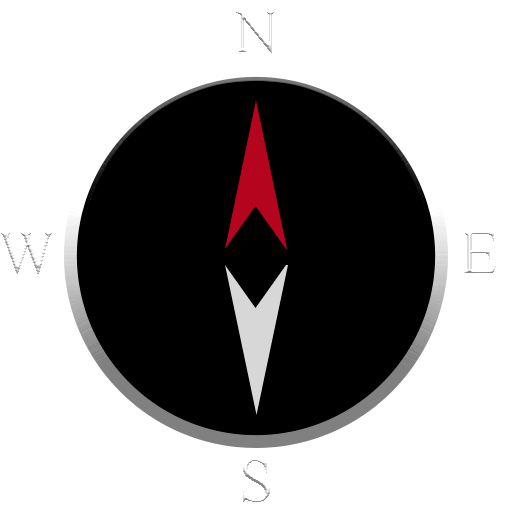
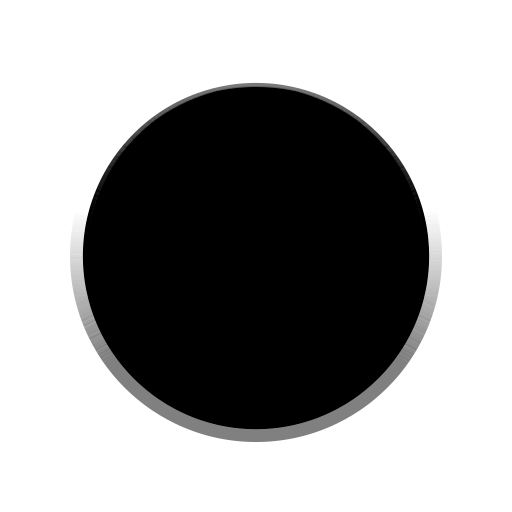
Added: timer background, Updated: timer font and compass position

diff --git a/src/client/timerdisplay.cpp b/src/client/timerdisplay.cpp
@@ -2,53 +2,51 @@
 
 TimerDisplay::TimerDisplay(glm::vec2 position) {
 
-	lMinute_val = 1;
-	rMinute_val = 0;
-	lSecond_val = 0;
-	rSecond_val = 0;
+	rMinute_val = 9;
+	lSecond_val = 5;
+	rSecond_val = 9;
 
 	//pos = glm::vec2(-1.0f, 1.0f);
 	pos = position;
-	lMinute = new UIElement(glm::vec3(pos.x, pos.y, 0.0f), scale, spriteMap[lMinute_val], uiTexture);
-	rMinute = new UIElement(glm::vec3(pos.x + digitGap, pos.y, 0.0f), scale, spriteMap[rMinute_val], uiTexture);
-	lSecond = new UIElement(glm::vec3(pos.x + (digitGap * 2.5f), pos.y, 0.0f), scale, spriteMap[lSecond_val], uiTexture);
-	rSecond = new UIElement(glm::vec3(pos.x + (digitGap * 2.5f) + digitGap, pos.y, 0.0f), scale, spriteMap[rSecond_val], uiTexture);
+	background = new UIElement(glm::vec3(pos.x, pos.y, 0.0f), scale * 4.0f, glm::vec2(0.0f, 0.0f), backgroundTexture);
+	glm::vec2 digitsPos = pos + indent;
+	rMinute = new UIElement(glm::vec3(digitsPos.x, digitsPos.y, 0.0f), scale, spriteMap[rMinute_val], uiTexture);
+	column = new UIElement(glm::vec3(digitsPos.x + digitGap, digitsPos.y, 0.0f), scale, spriteMap[10], uiTexture);
+	lSecond = new UIElement(glm::vec3(digitsPos.x + (digitGap * 2.0f), digitsPos.y, 0.0f), scale, spriteMap[lSecond_val], uiTexture);
+	rSecond = new UIElement(glm::vec3(digitsPos.x + (digitGap * 2.5f) + digitGap, digitsPos.y, 0.0f), scale, spriteMap[rSecond_val], uiTexture);
 }
 
-TimerDisplay::TimerDisplay(glm::vec2 position, int lMin, int rMin, int lSec, int rSec) {
+TimerDisplay::TimerDisplay(glm::vec2 position, int rMin, int lSec, int rSec) {
 
-	lMinute_val = lMin;
 	rMinute_val = rMin;
 	lSecond_val = lSec;
 	rSecond_val = rSec;
 
 	//pos = glm::vec2(-1.0f, 1.0f);
 	pos = position;
-	lMinute = new UIElement(glm::vec3(pos.x, pos.y, 0.0f), scale, spriteMap[lMinute_val], uiTexture);
-	rMinute = new UIElement(glm::vec3(pos.x + digitGap, pos.y, 0.0f), scale, spriteMap[rMinute_val], uiTexture);
-	lSecond = new UIElement(glm::vec3(pos.x + (digitGap * 2.5f), pos.y, 0.0f), scale, spriteMap[lSecond_val], uiTexture);
-	rSecond = new UIElement(glm::vec3(pos.x + (digitGap * 2.5f) + digitGap, pos.y, 0.0f), scale, spriteMap[rSecond_val], uiTexture);
+	background = new UIElement(glm::vec3(pos.x, pos.y, 0.0f), scale * 3.5f, glm::vec2(0.0f, 0.0f), backgroundTexture);
+	glm::vec2 digitsPos = pos + indent;
+	rMinute = new UIElement(glm::vec3(digitsPos.x, digitsPos.y, 0.0f), scale, spriteMap[rMinute_val], uiTexture);
+	column = new UIElement(glm::vec3(digitsPos.x + digitGap, digitsPos.y, 0.0f), scale, spriteMap[10], uiTexture);
+	lSecond = new UIElement(glm::vec3(digitsPos.x + (digitGap * 2.0f), digitsPos.y, 0.0f), scale, spriteMap[lSecond_val], uiTexture);
+	rSecond = new UIElement(glm::vec3(digitsPos.x + (digitGap * 2.5f) + digitGap, digitsPos.y, 0.0f), scale, spriteMap[rSecond_val], uiTexture);
 
 }
 
 TimerDisplay::~TimerDisplay() {
-	delete lMinute;
+	delete background;
 	delete rMinute;
+	delete column;
 	delete lSecond;
 	delete rSecond;
 }
 
 void TimerDisplay::updateTimer(int minutes, int seconds) {
-	int lMin_curr = minutes / 10;
 	int rMin_curr = minutes % 10;
 
 	int lSec_curr = seconds / 10;
 	int rSec_curr = seconds % 10;
 
-	if (lMinute_val != lMin_curr) {
-		lMinute_val = lMin_curr;
-		lMinute->changeSprite(spriteMap[lMinute_val]);
-	}
 	if (rMinute_val != rMin_curr) {
 		rMinute_val = rMin_curr;
 		rMinute->changeSprite(spriteMap[rMinute_val]);
@@ -65,8 +63,11 @@ void TimerDisplay::updateTimer(int minutes, int seconds) {
 }
 
 void TimerDisplay::draw(Shader& shader) {
-	lMinute->draw(shader);
+	if (hidden)
+		return;
+	background->draw(shader);
 	rMinute->draw(shader);
+	column->draw(shader);
 	lSecond->draw(shader);
 	rSecond->draw(shader);
 }

diff --git a/include/client/timerdisplay.hpp b/include/client/timerdisplay.hpp
@@ -9,7 +9,7 @@
 class TimerDisplay : public CanvasElement {
 public:
 	TimerDisplay(glm::vec2 position);
-	TimerDisplay(glm::vec2 position, int lMin, int rMin, int lSec, int rSec);
+	TimerDisplay(glm::vec2 position, int rMin, int lSec, int rSec);
 	~TimerDisplay();
 	void draw(Shader& shader) override;
 	void setHidden(bool val) override;
@@ -22,26 +22,29 @@ private:
 	std::string name = "timerdisplay";
 
 	glm::vec2 pos;
-	const float digitGap = .12f;
-	const glm::vec2 scale = glm::vec2(.1f, .2f);
+	glm::vec2 indent = glm::vec2(.18f, -0.04f);
+	const float digitGap = .08f;
+	const glm::vec2 scale = glm::vec2(.15f, .25f);
 	
-	int lMinute_val;
 	int rMinute_val;
 	int lSecond_val;
 	int rSecond_val;
 	
 	UITexture uiTexture = { "../src/client/ui/timer-atlas.png", glm::vec2(384.0f, 512.0f), glm::vec2(128.0f,128.0f)};
+	UITexture backgroundTexture = { "../src/client/ui/timer_background.png",  glm::vec2(1024.0f,1024.0f), glm::vec2(1024.0f,1024.0f) };
 
-	UIElement* lMinute;
 	UIElement* rMinute;
+	UIElement* column;
 	UIElement* lSecond;
 	UIElement* rSecond;
+	UIElement* background;
 
-	glm::vec2 spriteMap[10] = {
+	glm::vec2 spriteMap[11] = {
 		glm::vec2(128.0f,0.0f),
 		glm::vec2(0.0f,384.0f), glm::vec2(128.0f,384.0f), glm::vec2(256.0f,384.0f),
 		glm::vec2(0.0f,256.0f), glm::vec2(128.0f,256.0f), glm::vec2(256.0f,256.0f),
-		glm::vec2(0.0f,128.0f), glm::vec2(128.0f,128.0f), glm::vec2(256.0f,128.0f)
+		glm::vec2(0.0f,128.0f), glm::vec2(128.0f,128.0f), glm::vec2(256.0f,128.0f),
+		glm::vec2(0.0f,0.0f)
 	};
 
 };

diff --git a/src/client/compass.cpp b/src/client/compass.cpp
@@ -8,12 +8,17 @@ Compass::Compass(glm::vec2 pos) {
 	/*glm::vec2 offset = glm::vec2((256.0f - 800.0f)/1600.0f, (450.0f - 256.0f)/900.0f);*/
 	position = pos;
 	scale = glm::vec2(.30f, .5f);
+	
 	uiTexture = { "../src/client/ui/compass_frame.png", glm::vec2(256.0f, 256.0f), glm::vec2(256.0f,256.0f) };
 	uiELement = new UIElement(glm::vec3(position.x, position.y, 0.0f), scale, initialSpriteCoords, uiTexture);
+
+	handsTexture = { "../src/client/ui/compass_hands.png", glm::vec2(256.0f, 256.0f), glm::vec2(256.0f,256.0f) };
+	compassHands = new UIElement(glm::vec3(position.x, position.y, 0.0f), scale, initialSpriteCoords, handsTexture);
 }
 
 Compass::~Compass() {
 	delete uiELement;
+	delete compassHands;
 }
 
 void Compass::rotate(glm::vec3 dir) {
@@ -28,5 +33,10 @@ void Compass::rotate(glm::vec3 dir) {
 		degrees += 360.0f;
 	//std::cout << glm::to_string(orientation) << ", " << degrees << std::endl;
 
-	uiELement->rotate(degrees);
+	compassHands->rotate(degrees);
+}
+
+void Compass::draw(Shader& shader) {
+	uiELement->draw(shader);
+	compassHands->draw(shader);
 }

diff --git a/include/client/compass.hpp b/include/client/compass.hpp
@@ -5,5 +5,9 @@ class Compass : public CanvasImage{
 public:
 	Compass(glm::vec2 pos);
 	~Compass();
+	void draw(Shader& shader) override;
 	void rotate(glm::vec3 dir);
+private:
+	UIElement* compassHands;
+	UITexture handsTexture;
 };

diff --git a/include/client/canvas.hpp b/include/client/canvas.hpp
@@ -20,5 +20,5 @@ private:
 	glm::vec2 timerPos = glm::vec2(-1.0f, 1.0f);
 
 	Compass* compass;
-	glm::vec2 compassPos = glm::vec2(0.7f, -0.5f);
+	glm::vec2 compassPos = glm::vec2(0.7f, 1.0f);
 };
